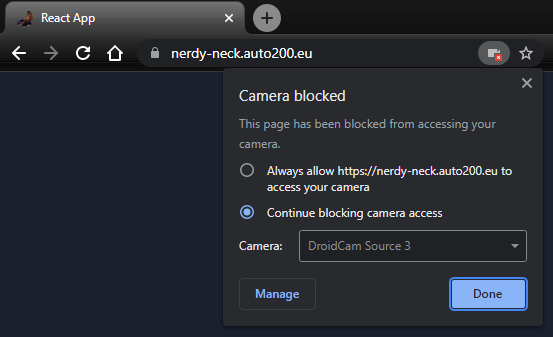
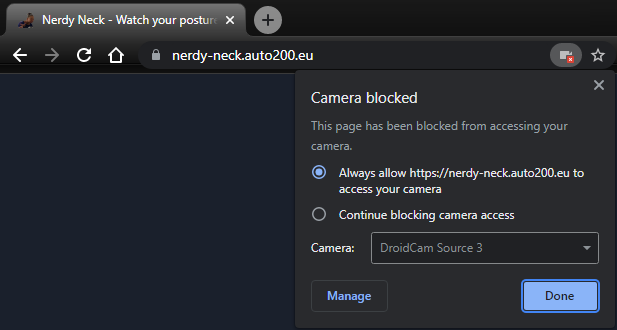
update pic, readme and default config

diff --git a/src/contexts/ConfigContext.tsx b/src/contexts/ConfigContext.tsx
@@ -30,7 +30,7 @@ export interface Config {
 
 export const initialConfig: Config = {
   bodySide: "right",
-  getPoseIntervalInS: 45,
+  getPoseIntervalInS: 5,
   //additional settings
   //maby extract additional settings to other reducer
   //https://stackoverflow.com/questions/59200785/react-usereducer-how-to-combine-multiple-reducers
@@ -52,11 +52,11 @@ export const initialConfig: Config = {
     tolerance: 5,
   },
   elbowMonitoring: {
-    enabled: true,
+    enabled: false,
     desiredAngle: 90,
     tolerance: 10,
   },
-  banKneesAndAnkles: true,
+  banKneesAndAnkles: false,
 };
 
 const ConfigContext = createContext<{

diff --git a/README.md b/README.md
@@ -1,4 +1,4 @@
-Website 👉 https://nerdy-neck.auto200.eu/ **(use google chrome :sweat_smile:)**
+Website 👉 https://nerdy-neck.auto200.eu/
 
 # Monitor your body posture while sitting
 
@@ -30,8 +30,6 @@ Website 👉 https://nerdy-neck.auto200.eu/ **(use google chrome :sweat_smile:)*
 
 <img src="preview-pics/flaws.png" alt="flaws of the app">
 
-# <u>**Do not run this app on mobile, mine froze for like 10 mins :smile:**</u>
-
 ---
 
 # Getting Started with Create React App
@@ -42,7 +40,7 @@ This project was bootstrapped with [Create React App](https://github.com/faceboo
 
 In the project directory, you can run:
 
-### `npm start`
+### `yarn start`
 
 Runs the app in the development mode.\
 Open [http://localhost:3000](http://localhost:3000) to view it in the browser.
@@ -50,12 +48,12 @@ Open [http://localhost:3000](http://localhost:3000) to view it in the browser.
 The page will reload if you make edits.\
 You will also see any lint errors in the console.
 
-### `npm test`
+### `yarn test`
 
 Launches the test runner in the interactive watch mode.\
 See the section about [running tests](https://facebook.github.io/create-react-app/docs/running-tests) for more information.
 
-### `npm run build`
+### `yarn build`
 
 Builds the app for production to the `build` folder.\
 It correctly bundles React in production mode and optimizes the build for the best performance.
